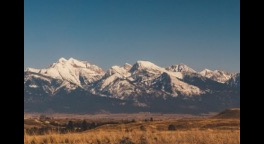
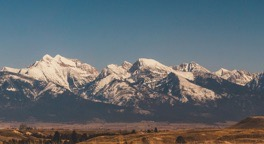
Text block full width; fix inline photo crop; blocks after the full-image hero cover it edge to edge

diff --git a/index.html b/index.html
@@ -106,8 +106,10 @@
   </section>
 
   <!-- BLOCK: text-inline-image -->
-  <section class="container text-inline-image">
-    <p class="text-inline-image__text" data-reveal>Strategic guidance across <img src="assets/images/text-inline-mountain.jpg" alt="" width="264" height="144" loading="lazy"> business operations, <img src="assets/images/text-inline-mountain.jpg" alt="" width="264" height="144" loading="lazy"> organisational growth, and leadership planning to help companies move forward <img src="assets/images/text-inline-mountain.jpg" alt="" width="264" height="144" loading="lazy"> confidently</p>
+  <section class="text-inline-image">
+    <div class="container">
+      <p class="text-inline-image__text" data-reveal>Strategic guidance across <img src="assets/images/text-inline-mountain.jpg" alt="" width="264" height="144" loading="lazy"> business operations, <img src="assets/images/text-inline-mountain.jpg" alt="" width="264" height="144" loading="lazy"> organisational growth, and leadership planning to help companies move forward <img src="assets/images/text-inline-mountain.jpg" alt="" width="264" height="144" loading="lazy"> confidently</p>
+    </div>
   </section>
 
   <!-- BLOCK: marquee -->

diff --git a/text.html b/text.html
@@ -66,8 +66,10 @@
 <main>
 
   <!-- BLOCK: text-inline-image -->
-  <section class="container text-inline-image">
-    <p class="text-inline-image__text" data-reveal>Strategic guidance across <img src="assets/images/text-inline-mountain.jpg" alt="" width="264" height="144" loading="lazy"> business operations, <img src="assets/images/text-inline-mountain.jpg" alt="" width="264" height="144" loading="lazy"> organisational growth, and leadership planning to help companies move forward <img src="assets/images/text-inline-mountain.jpg" alt="" width="264" height="144" loading="lazy"> confidently</p>
+  <section class="text-inline-image">
+    <div class="container">
+      <p class="text-inline-image__text" data-reveal>Strategic guidance across <img src="assets/images/text-inline-mountain.jpg" alt="" width="264" height="144" loading="lazy"> business operations, <img src="assets/images/text-inline-mountain.jpg" alt="" width="264" height="144" loading="lazy"> organisational growth, and leadership planning to help companies move forward <img src="assets/images/text-inline-mountain.jpg" alt="" width="264" height="144" loading="lazy"> confidently</p>
+    </div>
   </section>
 
 </main>

diff --git a/css/blocks/hero-full-image.css b/css/blocks/hero-full-image.css
@@ -64,11 +64,15 @@
       animation-range: exit 0% exit 100%;
     }
     /* Everything after the hero sits above it, on the page colour
-       (:where keeps this weaker than each block's own background) */
+       (:where keeps this weaker than each block's own background). The
+       shadow + clip carry the colour edge to edge, so boxed blocks
+       (.container on the section) still cover the hero fully. */
     :where(.hero-full-image ~ *) {
       position: relative;
       z-index: 1;
       background: var(--bg-primary);
+      box-shadow: 0 0 0 100vmax var(--bg-primary);
+      clip-path: inset(0 -100vmax);
     }
   }
 }
